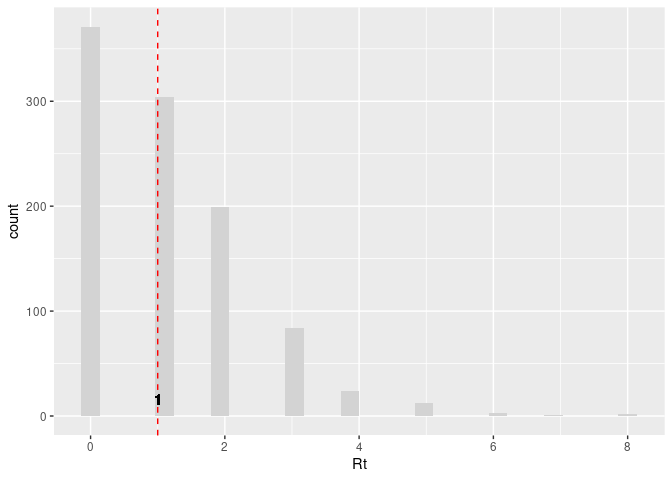
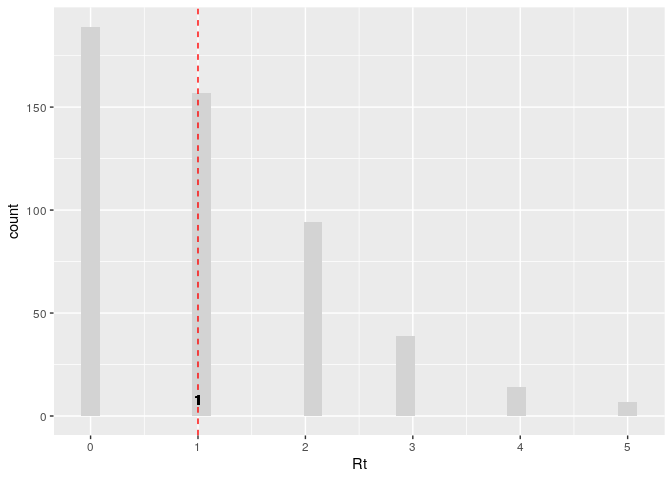
Updating paramteres

diff --git a/school_quarantine/school_quarantine.cpp b/school_quarantine/school_quarantine.cpp
@@ -6,8 +6,8 @@
 int main(int argc, char *argv[]) {
 
     // Passing the single argument to this function
-    std::string fn      = "new_bridge_88_npi_params.yaml";
-    std::string out_dir = "new_bridge_88_npi";
+    std::string fn      = "new_bridge_88_params.yaml";
+    std::string out_dir = "new_bridge_88";
     if (argc != 3 && argc != 1) {
         std::cerr << "Usage: " << argv[0] << " <filename> <outdir>" << std::endl;
         return 1;

diff --git a/school_quarantine/new_bridge_88.md b/school_quarantine/new_bridge_88.md
@@ -1,5 +1,6 @@
 # School quarantine model
 
+
 ## School quarantine model for new_bridge_88
 
 This model is a discrete-time Agent-Based Model \[ABM\] that includes
@@ -56,8 +57,8 @@ This model simulates the spread of measles in a highschool. The
 highschool has students, and the simulation runs for days with one index
 case. The following is the output from the highschool model:
 
-    Using file: /scratch/local/u6039184/3635580/Rtmp9hS6fK/file1ebfab60c78764.yaml
-    Starting multiple runs (1000) using 30 thread(s)
+    Using file: new_bridge_88_params.yaml
+    Starting multiple runs (500) using 10 thread(s)
     _________________________________________________________________________
     _________________________________________________________________________
     ||||||||||||||||||||||||||||||||||||||||||||||||||||||||||||||||||||||||| done.
@@ -71,10 +72,10 @@ case. The following is the output from the highschool model:
     Number of entities  : 0
     Days (duration)     : 60 (of 60)
     Number of viruses   : 1
-    Last run elapsed t  : 7.00ms
-    Total elapsed t     : 260.00ms (1000 runs)
-    Last run speed      : 5.22 million agents x day / second
-    Average run speed   : 141.49 million agents x day / second
+    Last run elapsed t  : 6.00ms
+    Total elapsed t     : 336.00ms (500 runs)
+    Last run speed      : 6.03 million agents x day / second
+    Average run speed   : 54.72 million agents x day / second
     Rewiring            : off
 
     Global events:
@@ -102,7 +103,7 @@ case. The following is the output from the highschool model:
      - Vax improved recovery  : 0.5000
 
     Distribution of the population at time 60:
-      - ( 0) Susceptible             : 613 -> 610
+      - ( 0) Susceptible             : 613 -> 613
       - ( 1) Exposed                 :   1 -> 0
       - ( 2) Prodromal               :   0 -> 0
       - ( 3) Rash                    :   0 -> 0
@@ -112,19 +113,19 @@ case. The following is the output from the highschool model:
       - ( 7) Quarantined Infectious  :   0 -> 0
       - ( 8) Quarantined Recovered   :   0 -> 0
       - ( 9) Hospitalized            :   0 -> 0
-      - (10) Recovered               :   0 -> 4
+      - (10) Recovered               :   0 -> 1
 
     Transition Probabilities:
      - Susceptible              1.00  0.00  0.00  0.00  0.00  0.00  0.00  0.00  0.00  0.00  0.00
-     - Exposed                  0.00  0.93  0.07  0.00  0.00  0.00  0.00  0.00  0.00  0.00  0.00
-     - Prodromal                0.00  0.00  0.20  0.80  0.00  0.00  0.00  0.00  0.00  0.00  0.00
-     - Rash                     0.00  0.00  0.00  0.33  0.00  0.00  0.00  0.00  0.00  0.33  0.33
+     - Exposed                  0.00  0.86  0.14  0.00  0.00  0.00  0.00  0.00  0.00  0.00  0.00
+     - Prodromal                0.00  0.00  0.67  0.33  0.00  0.00  0.00  0.00  0.00  0.00  0.00
+     - Rash                     0.00  0.00  0.00  0.00  0.00  0.00  0.00  0.00  0.00  0.00  1.00
      - Isolated                    -     -     -     -     -     -     -     -     -     -     -
      - Quarantined Exposed         -     -     -     -     -     -     -     -     -     -     -
      - Quarantined Susceptible     -     -     -     -     -     -     -     -     -     -     -
      - Quarantined Infectious      -     -     -     -     -     -     -     -     -     -     -
      - Quarantined Recovered       -     -     -     -     -     -     -     -     -     -     -
-     - Hospitalized             0.00  0.00  0.00  0.00  0.00  0.00  0.00  0.00  0.00  0.88  0.12
+     - Hospitalized                -     -     -     -     -     -     -     -     -     -     -
      - Recovered                0.00  0.00  0.00  0.00  0.00  0.00  0.00  0.00  0.00  0.00  1.00
 
 ## Flowchart
@@ -140,12 +141,12 @@ flowchart LR
     s3[Rash]
     s4[Recovered]
     s5[Susceptible]
-    s0 -->|0.081569| s2
-    s1 -->|0.140694| s4
-    s2 -->|0.338607| s3
-    s3 -->|0.164090| s1
-    s3 -->|0.623682| s4
-    s5 -->|0.000158| s0
+    s0 -->|0.082961| s2
+    s1 -->|0.135165| s4
+    s2 -->|0.333029| s3
+    s3 -->|0.160118| s1
+    s3 -->|0.629820| s4
+    s5 -->|0.000149| s0
 
 ```
 
@@ -153,16 +154,16 @@ flowchart LR
 
 Estimating the outbreak size:
 
-|  Size | Probability    | Likely size (if \> Size) |
-|------:|:---------------|:-------------------------|
-|  2.00 | 0.62           | \[2.00, 30.40\]          |
-|  5.00 | 0.38           | \[5.00, 32.00\]          |
-| 10.00 | 0.21           | \[10.00, 35.88\]         |
-| 20.00 | 0.06           | \[20.00, 37.45\]         |
-|  3.00 | Median (50%\>) | \[ 4 , 32 \]             |
-|  5.75 | Mean (average) | \[ 6 , 32.675 \]         |
+|   Size | Probability    | Likely size (if \> Size) |
+|-------:|:---------------|:-------------------------|
+|  2.000 | 0.61           | \[2.00, 25.35\]          |
+|  5.000 | 0.37           | \[5.00, 30.00\]          |
+| 10.000 | 0.20           | \[10.00, 34.00\]         |
+| 20.000 | 0.05           | \[20.00, 37.38\]         |
+|  2.000 | Median (50%\>) | \[ 3 , 28.7 \]           |
+|  5.426 | Mean (average) | \[ 6 , 30.225 \]         |
 
-Likely sizes of the outbreak based on 1000 simulations.
+Likely sizes of the outbreak based on 500 simulations.
 
 ![](new_bridge_88_files/figure-commonmark/print-histogram-1.png)
 
@@ -181,7 +182,7 @@ transitions:
 
 ![](new_bridge_88_files/figure-commonmark/reproductive-number-1.png)
 
-    Mean R0:1.151
+    Mean R0:1.106
 
     Median R0:1
 
@@ -189,7 +190,8 @@ transitions:
 
 # References
 
-<div id="refs" class="references csl-bib-body hanging-indent">
+<div id="refs" class="references csl-bib-body hanging-indent"
+entry-spacing="0">
 
 <div id="ref-jones2019measles" class="csl-entry">
 
